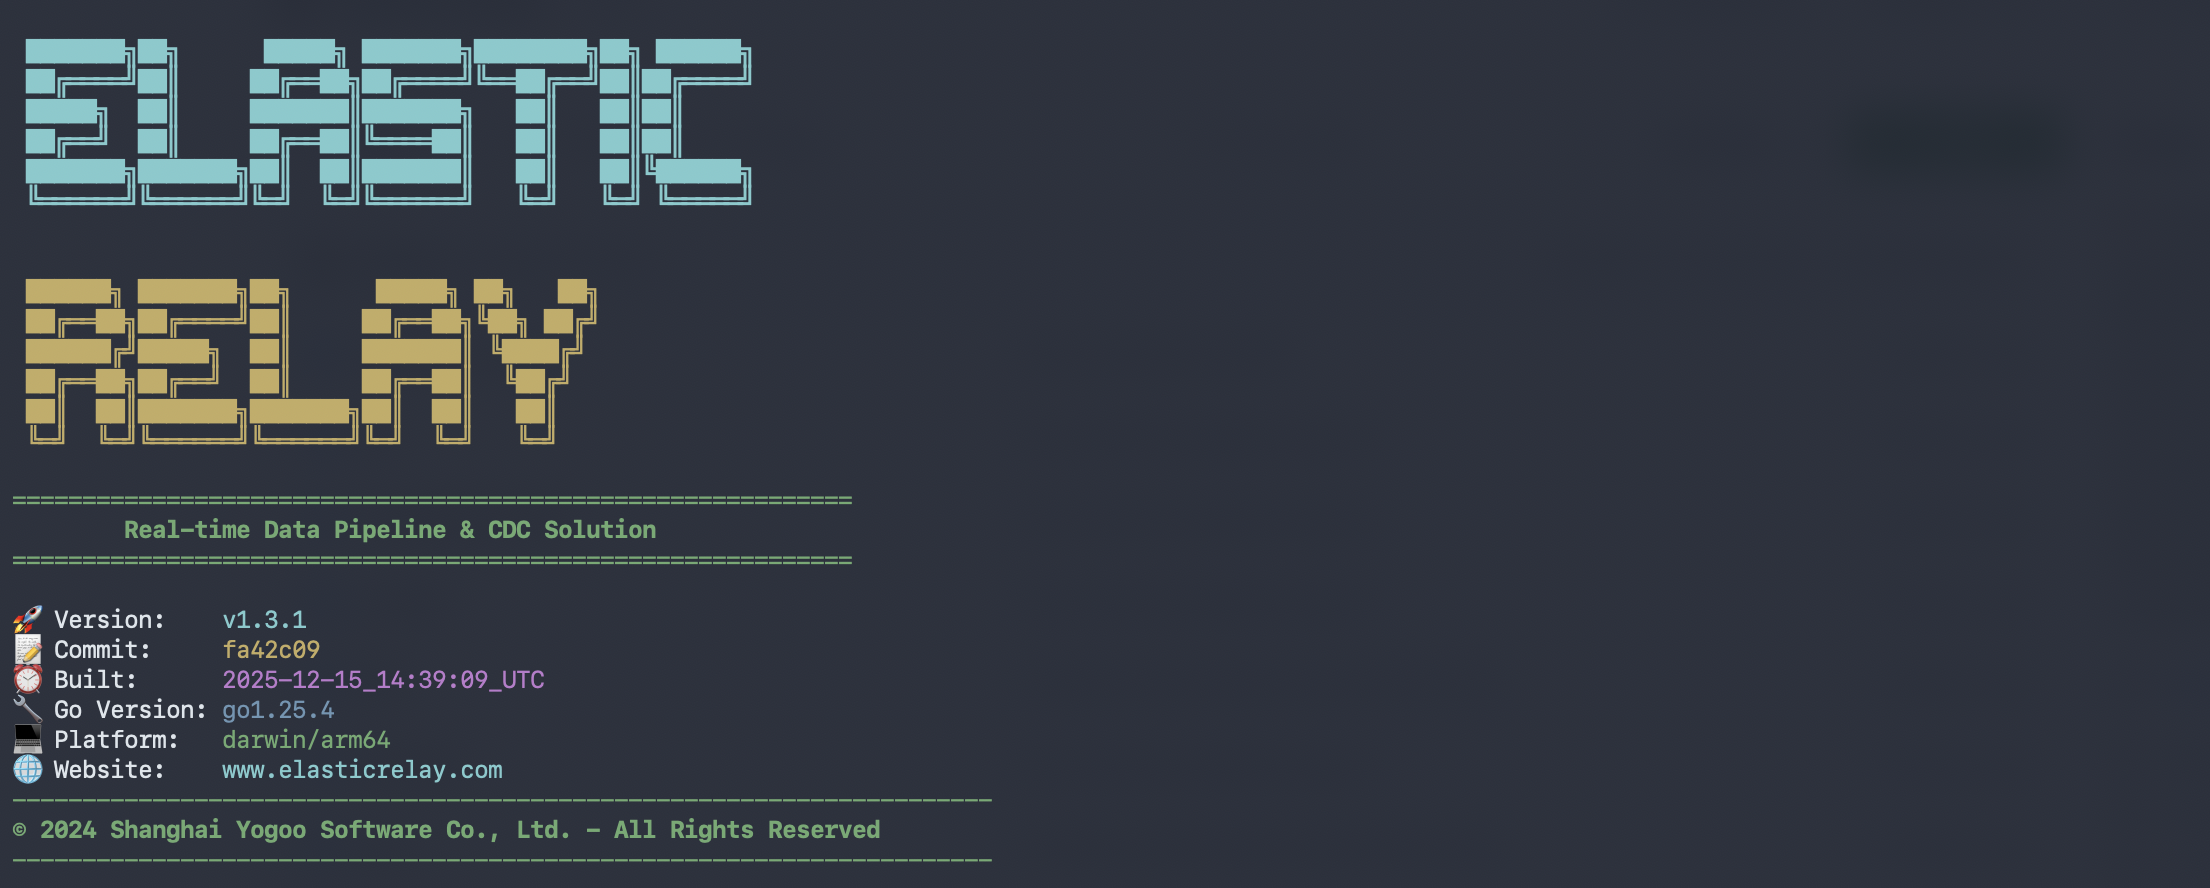
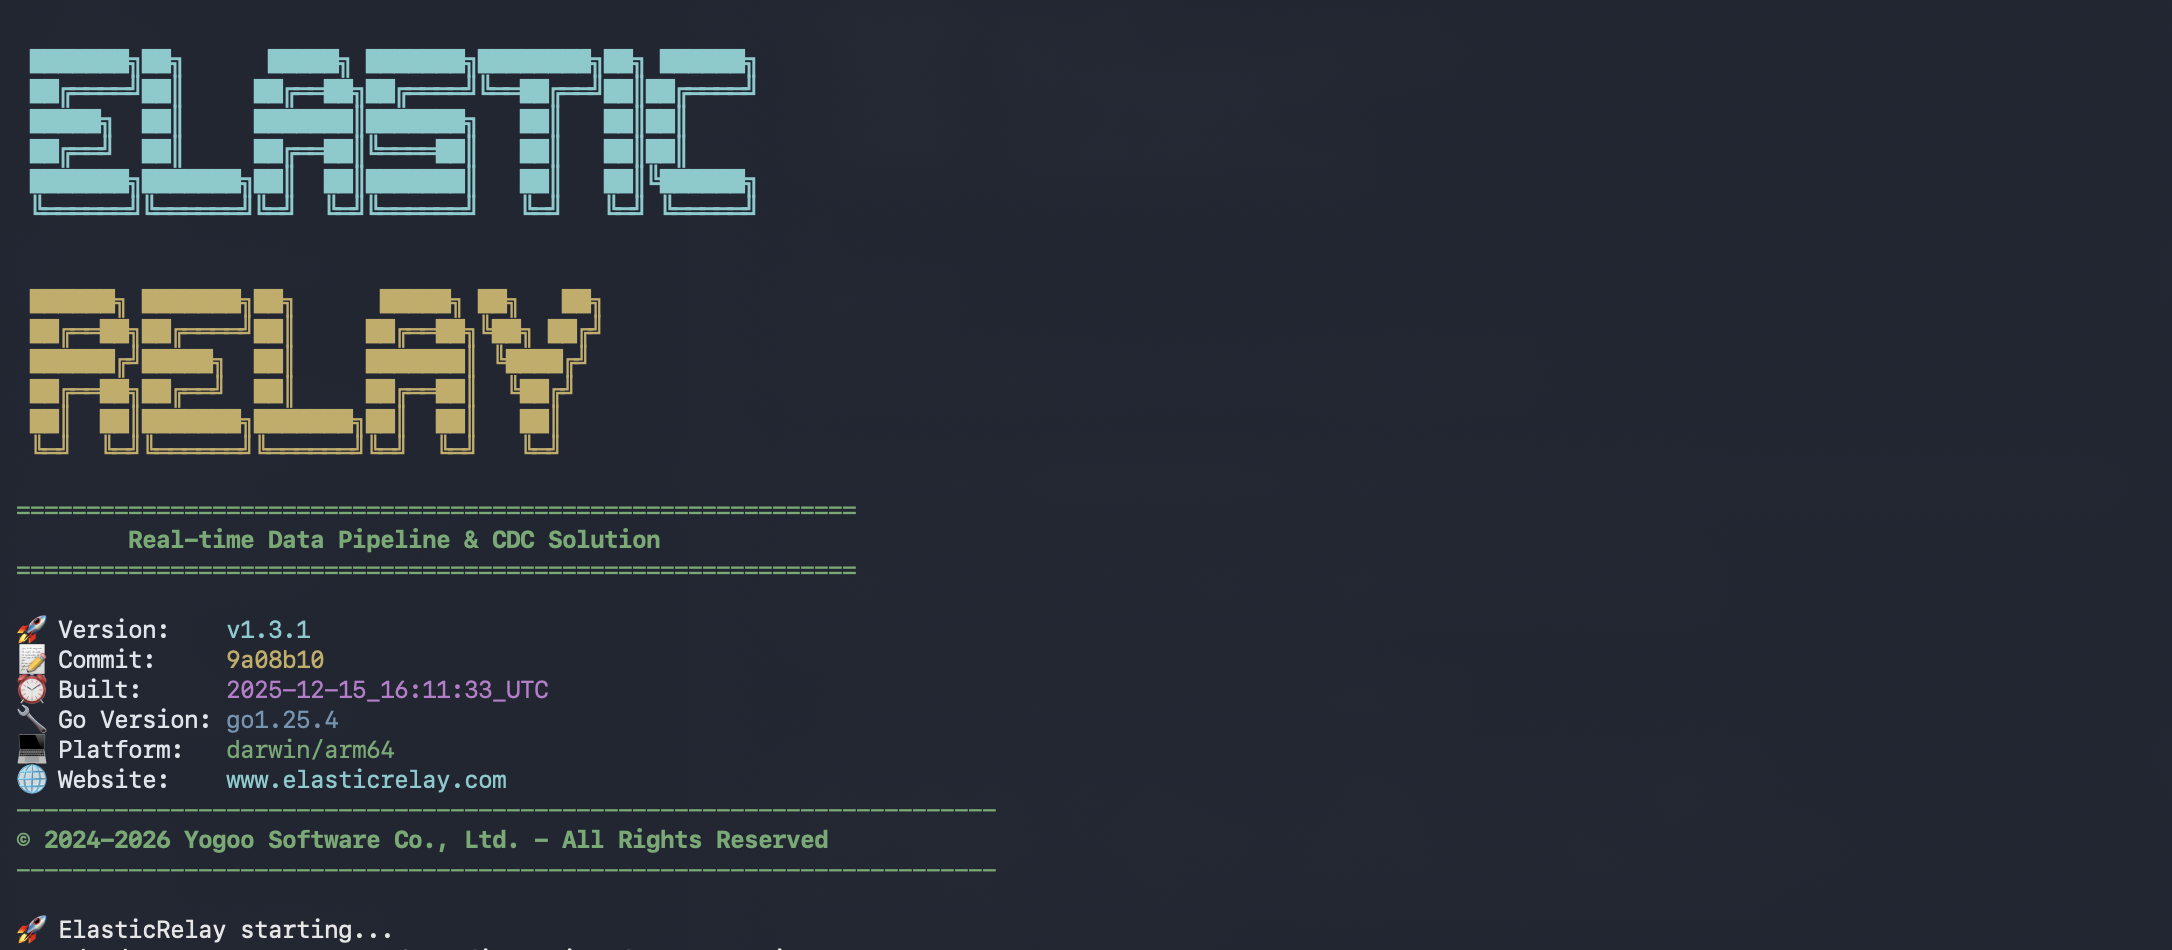
update README.md and version.go

Changed region(s): [[0.0, 0.3041, 0.4319, 1.0], [0.0, 0.0304, 0.3702, 0.2432]]

diff --git a/internal/version/version.go b/internal/version/version.go
@@ -110,7 +110,7 @@ func DisplayLogo() {
 
 	// Display copyright information
 	fmt.Printf("%s%s%s\n", ColorGreen, strings.Repeat("-", 70), ColorReset)
-	fmt.Printf("%s%s© 2024 Shanghai Yogoo Software Co., Ltd. - All Rights Reserved%s%s\n",
+	fmt.Printf("%s%s© 2024-2026 Yogoo Software Co., Ltd. - All Rights Reserved%s%s\n",
 		ColorGreen, ColorBold, ColorReset, ColorGreen)
 	fmt.Printf("%s%s%s\n\n", ColorGreen, strings.Repeat("-", 70), ColorReset)
 }

diff --git a/releases/download/asset/README.de.md b/releases/download/asset/README.de.md
@@ -487,7 +487,7 @@ Dieses Projekt hat seine Kern Multi-Source CDC Plattform (Phase 2) abgeschlossen
 ElasticRelay ist unter der [Apache License 2.0](LICENSE) lizenziert.
 
 ```
-Copyright 2024 上海悦高软件股份有限公司 (Shanghai Yogoo Software Co., Ltd.)
+Copyright 2024 上海悦高软件股份有限公司 (Yogoo Software Co., Ltd.)
 
 Licensed under the Apache License, Version 2.0 (the "License");
 you may not use this file except in compliance with the License.

diff --git a/README.md b/README.md
@@ -486,7 +486,7 @@ This project has completed its core multi-source CDC platform (Phase 2) and is p
 ElasticRelay is licensed under the [Apache License 2.0](LICENSE).
 
 ```
-Copyright 2024 上海悦高软件股份有限公司 (Shanghai Yogoo Software Co., Ltd.)
+Copyright 2024 上海悦高软件股份有限公司 (Yogoo Software Co., Ltd.)
 
 Licensed under the Apache License, Version 2.0 (the "License");
 you may not use this file except in compliance with the License.

diff --git a/releases/download/asset/README.fr.md b/releases/download/asset/README.fr.md
@@ -487,7 +487,7 @@ Ce projet a terminé sa plateforme CDC multi-sources principale (Phase 2) et se 
 ElasticRelay est sous licence [Apache License 2.0](LICENSE).
 
 ```
-Copyright 2024 上海悦高软件股份有限公司 (Shanghai Yogoo Software Co., Ltd.)
+Copyright 2024 上海悦高软件股份有限公司 (Yogoo Software Co., Ltd.)
 
 Licensed under the Apache License, Version 2.0 (the "License");
 you may not use this file except in compliance with the License.

diff --git a/releases/download/asset/README.ja.md b/releases/download/asset/README.ja.md
@@ -487,7 +487,7 @@ docker-compose up mongodb-init
 ElasticRelay は [Apache License 2.0](LICENSE) の下でライセンスされています。
 
 ```
-Copyright 2024 上海悦高软件股份有限公司 (Shanghai Yogoo Software Co., Ltd.)
+Copyright 2024 上海悦高软件股份有限公司 (Yogoo Software Co., Ltd.)
 
 Licensed under the Apache License, Version 2.0 (the "License");
 you may not use this file except in compliance with the License.

diff --git a/releases/download/asset/README.ru.md b/releases/download/asset/README.ru.md
@@ -486,7 +486,7 @@ docker-compose up mongodb-init
 ElasticRelay лицензирован под [Apache License 2.0](LICENSE).
 
 ```
-Copyright 2024 上海悦高软件股份有限公司 (Shanghai Yogoo Software Co., Ltd.)
+Copyright 2024 上海悦高软件股份有限公司 (Yogoo Software Co., Ltd.)
 
 Licensed under the Apache License, Version 2.0 (the "License");
 you may not use this file except in compliance with the License.

diff --git a/releases/download/asset/README.zh-CN.md b/releases/download/asset/README.zh-CN.md
@@ -486,7 +486,7 @@ docker-compose up mongodb-init
 ElasticRelay 根据 [Apache License 2.0](LICENSE) 许可。
 
 ```
-Copyright 2024 上海悦高软件股份有限公司 (Shanghai Yogoo Software Co., Ltd.)
+Copyright 2024 上海悦高软件股份有限公司 (Yogoo Software Co., Ltd.)
 
 Licensed under the Apache License, Version 2.0 (the "License");
 you may not use this file except in compliance with the License.
